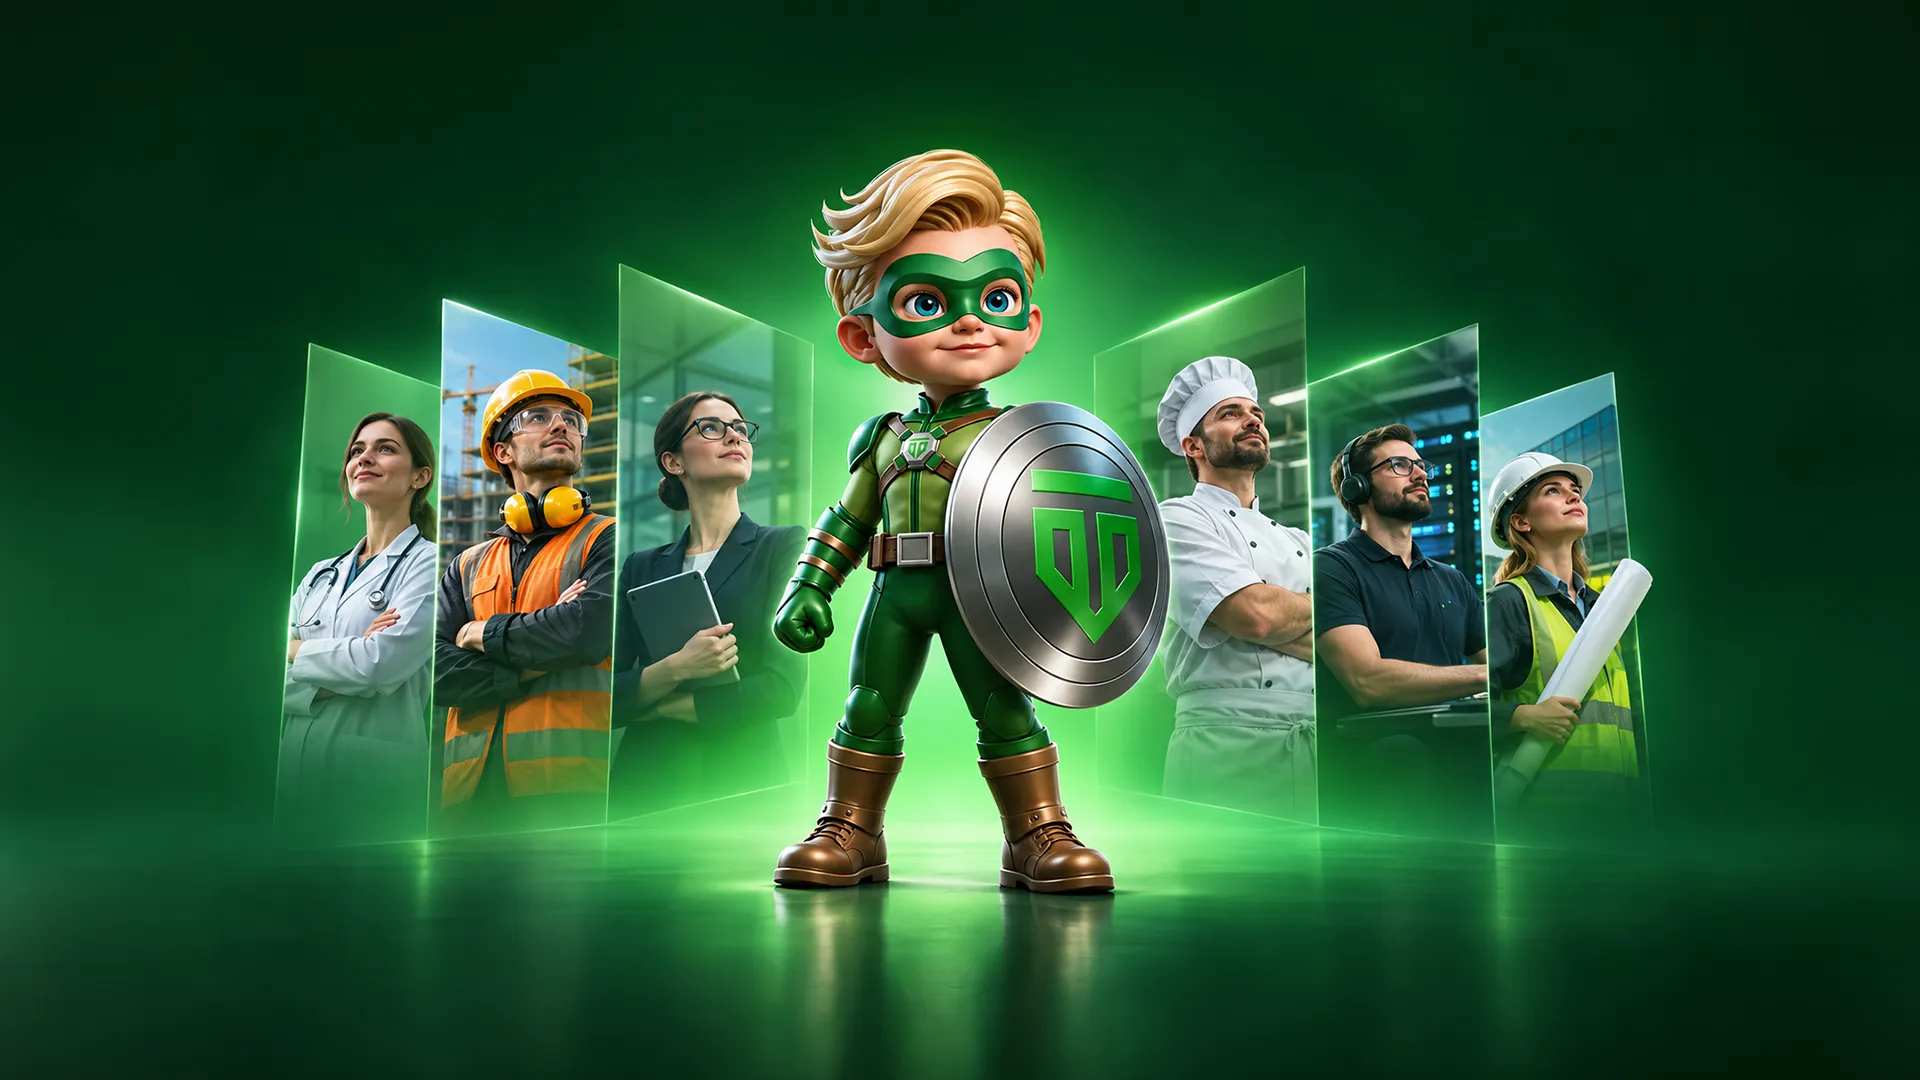
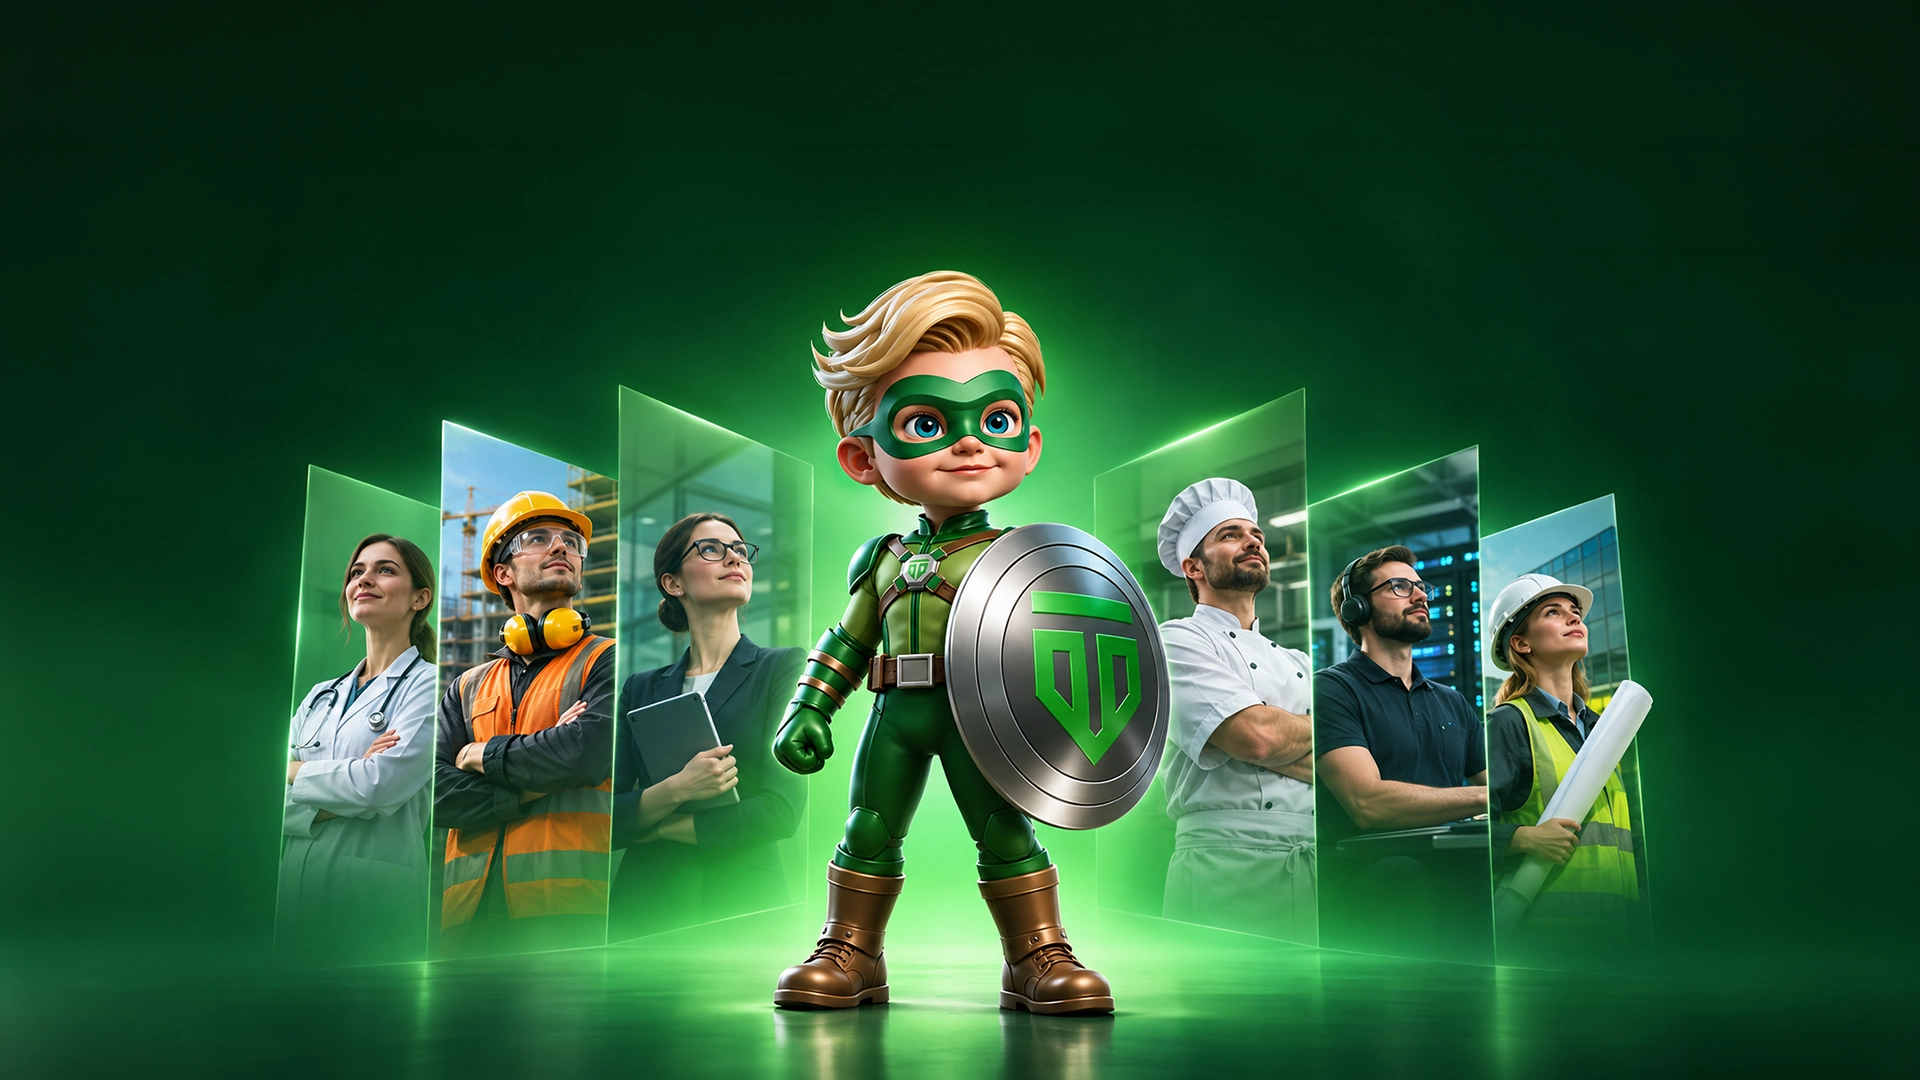
Hero Home: testo nello spazio sopra la testa di Ingenio, nuova immagine

diff --git a/css/style.css b/css/style.css
@@ -431,3 +431,21 @@ section:nth-of-type(even):not(.hero):not(.cta):not(.manifesto) { background: #08
   .hero-bar .btn { padding: 0 14px; font-size: 12px; }
   .hero-sub-line { font-size: 0.92rem; }
 }
+
+/* Hero home: l'immagine (con spazio libero in alto) fa da sfondo a tutto schermo; il testo sta sopra la testa di Ingenio */
+.hero-home { display: block; height: 100svh; min-height: 620px; padding: 104px 0 0; }
+.hero-home > img { position: absolute; inset: 0; z-index: 0; flex: none; width: 100%; max-width: none; height: 100%; margin: 0; object-fit: cover; object-position: center bottom;
+  -webkit-mask: linear-gradient(#000 82%, transparent); mask: linear-gradient(#000 82%, transparent); }
+.hero-home > .wrap { position: relative; z-index: 1; }
+.hero-home h1 { max-width: none; }
+@media (min-width: 900px) { .hero-home h1 { white-space: nowrap; } }
+@media (max-width: 760px) { .hero-home > img { width: 100%; object-fit: cover; object-position: center bottom; -webkit-mask: linear-gradient(#000 85%, transparent); mask: linear-gradient(#000 85%, transparent); } }
+/* L'immagine è ancorata in basso e alta quanto serve perché la testa di Ingenio (25% dall'alto dell'immagine) resti sotto il testo */
+@media (min-width: 761px) {
+  .hero-home > img { inset: auto; bottom: 0; left: 50%; transform: translateX(-50%); width: auto; height: min(56.25vw, calc(100svh - 150px)); object-fit: contain;
+    -webkit-mask: linear-gradient(transparent, #000 14%, #000 85%, transparent), linear-gradient(90deg, transparent, #000 10%, #000 90%, transparent); -webkit-mask-composite: source-in;
+    mask: linear-gradient(transparent, #000 14%, #000 85%, transparent), linear-gradient(90deg, transparent, #000 10%, #000 90%, transparent); mask-composite: intersect; }
+}
+@media (max-width: 760px) {
+  .hero-home > img { inset: auto 0 0 0; height: calc(100svh - 290px); min-height: 360px; -webkit-mask: linear-gradient(transparent, #000 14%, #000 85%, transparent); mask: linear-gradient(transparent, #000 14%, #000 85%, transparent); }
+}
